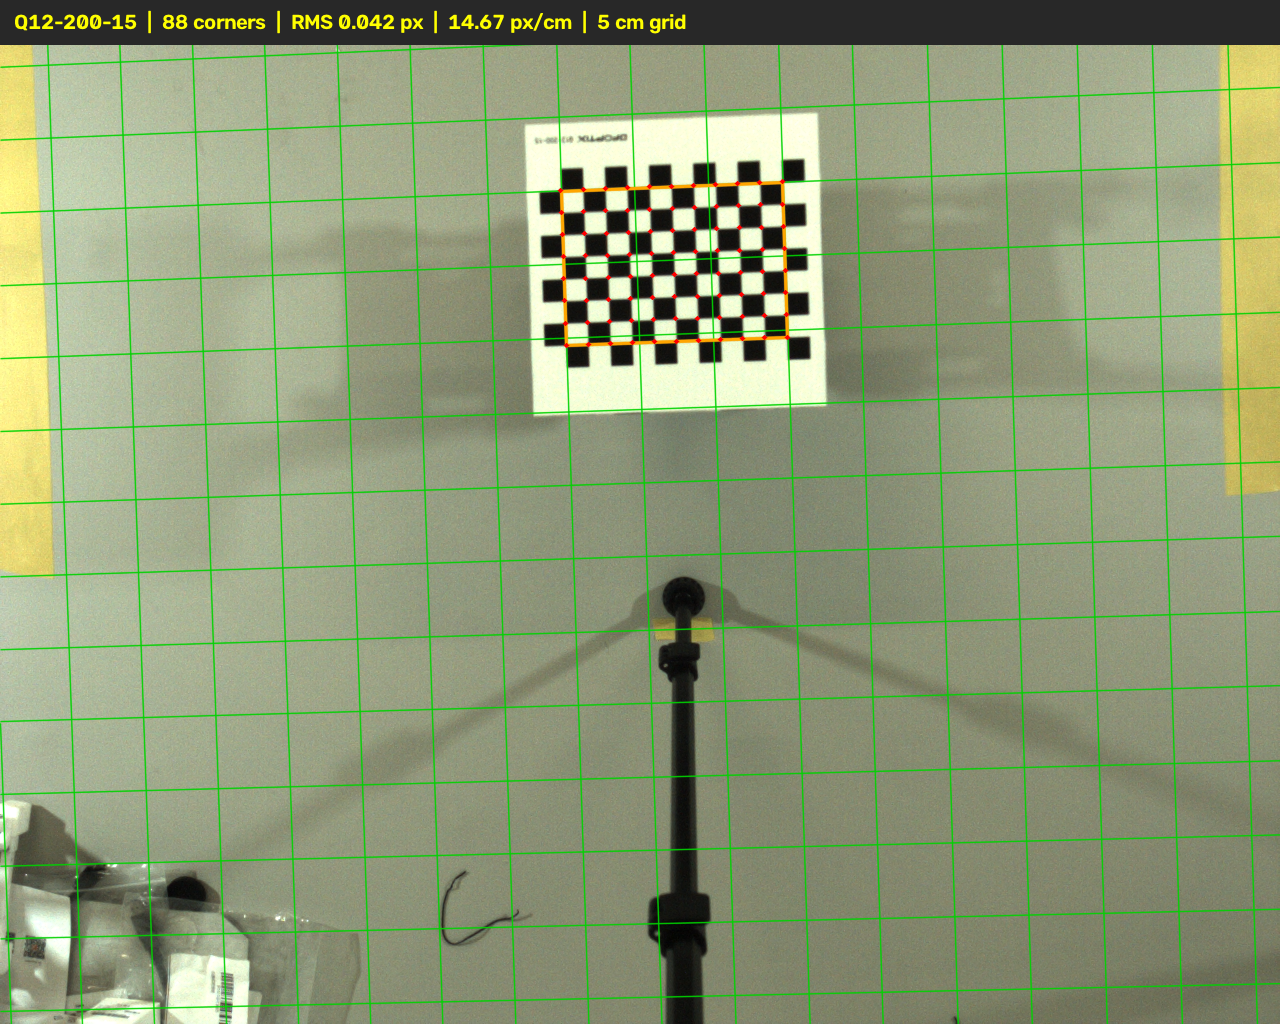
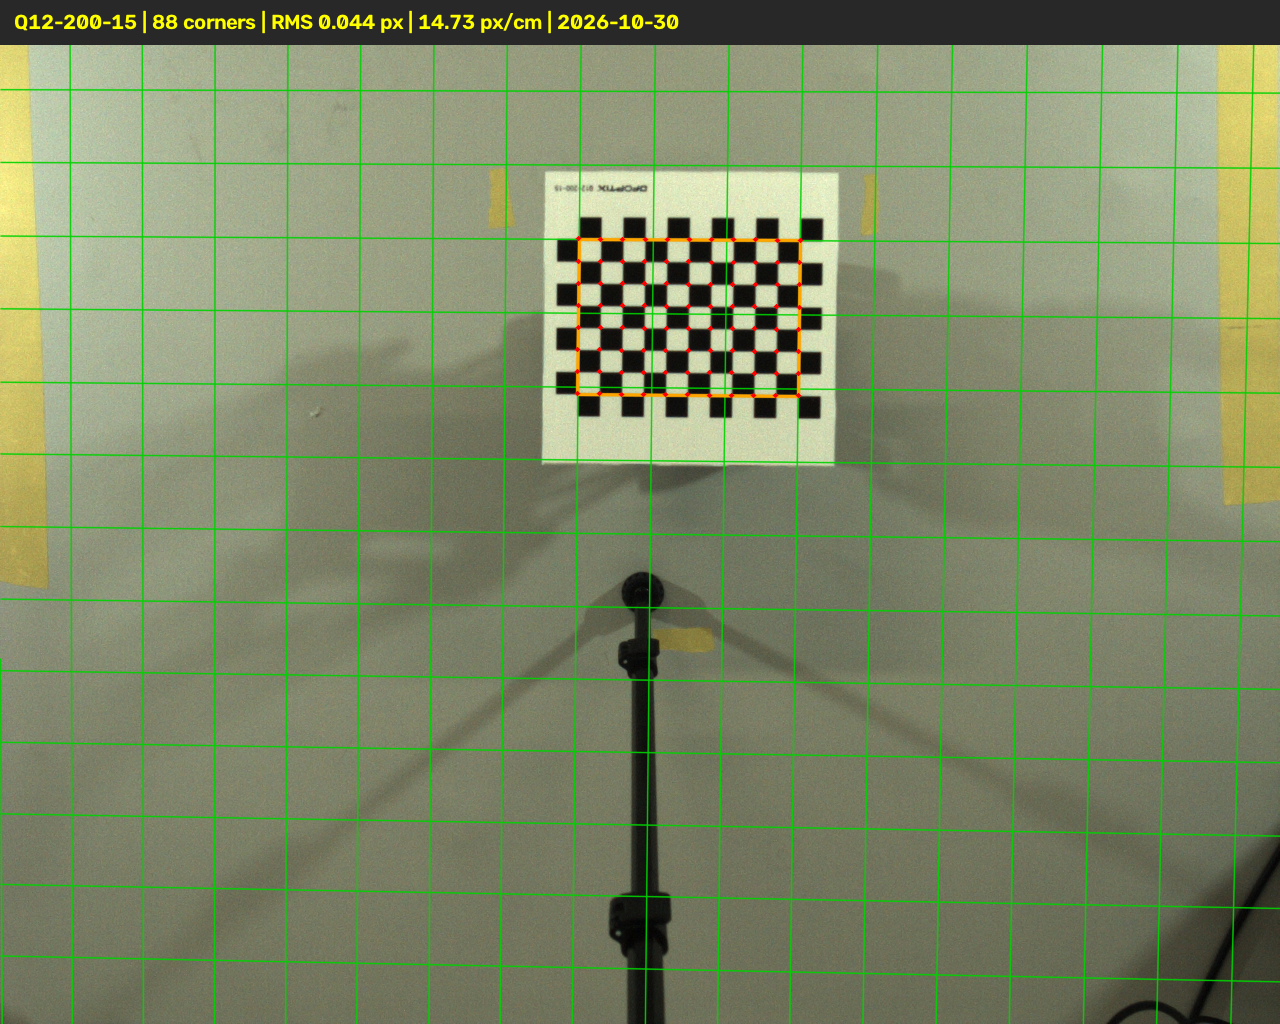
10-30 重标定：H 更新（RMS 0.044px、14.73px/cm、WD 114.8cm），config 与报告素材目录同步

diff --git a/第二学期/config.py b/第二学期/config.py
@@ -71,10 +71,10 @@ def ensure_dirs() -> None:
 #   px/cm 按【整个视野】算：1280 ÷ 110 = 11.64
 
 # ---- 以下为 2026-10-23 晚 实测值（覆盖理论推导）----
-REGION_W_CM = 77.0          # 测量区（沿运动方向）：视野 87.2 两端各留约 5 cm
-REGION_H_CM = 60.0          # 测量区短边：视野 69.7 上下各留约 4.8 cm
-WORKING_DISTANCE_M = 1.135  # 镜头 → 标定板平面（桁架顶面）实测
-PX_PER_CM = 14.67           # 实测（Q12-200-15 反算；Y 向 14.70）
+REGION_W_CM = 76.9          # 测量区（沿运动方向）：视野 87.2 两端各留约 5 cm
+REGION_H_CM = 59.3          # 测量区短边：视野 69.7 上下各留约 4.8 cm
+WORKING_DISTANCE_M = 1.148  # 镜头 → 标定板平面（桁架顶面）实测
+PX_PER_CM = 14.73           # 实测（Q12-200-15 反算；Y 向 14.70）
 
 # ---- 跟踪面修正（2026-10-24 由实测速度反推）----
 #
@@ -95,7 +95,7 @@ LENS_FOCAL_MM = 8.0
 
 # 由实测 px/cm 反推的视野（自检用，应 ≈ 87.2 × 69.7 cm）
 FOV_W_CM = 1280.0 / PX_PER_CM                       # 87.2
-FOV_H_CM = 1024.0 / (PX_PER_CM * 14.70 / 14.67)     # 69.7
+FOV_H_CM = 1024.0 / (PX_PER_CM * 14.77 / 14.73)     # 69.7
 FOV_MARGIN_CM = (FOV_W_CM - REGION_W_CM) / 2        # 5.1
 
 # 轮廓面积下限（px²），P2.2 按实测 px/cm 反算。
@@ -226,7 +226,7 @@ MVS_PATH_CANDIDATES = [
 
 if __name__ == "__main__":
     # 直接运行本文件可以看当前几何推导是否自洽
-    print(f"区域      {REGION_W_CM:.0f} × {REGION_H_CM:.0f} cm（2026-10-23 实测）")
+    print(f"区域      {REGION_W_CM:.0f} × {REGION_H_CM:.0f} cm（2026-10-30 重标）")
     print(f"视野      {FOV_W_CM:.1f} × {FOV_H_CM:.1f} cm（每边留 {FOV_MARGIN_CM:.1f} cm）")
     print(f"工作距离  {WORKING_DISTANCE_M:.3f} m（镜头→车顶跟踪面）")
     print(f"px/cm     {PX_PER_CM:.2f}（实测）")

diff --git a/第二学期/data/2026-10-30_报告素材/README.md b/第二学期/data/2026-10-30_报告素材/README.md
@@ -1,0 +1,28 @@
+# 2026-10-30 报告素材（多光照等级测量）
+
+## 本次状态
+- 桌面：**暂不铺黑布**（白桌）
+- 三脚架：**动过**，已重新标定（2026-10-30）
+- 灯：两盏 100 W 工作灯已开
+- 照度计：已到货
+
+## 重标定结果（2026-10-30）
+| 项 | 值 |
+|---|---|
+| 角点 / RMS | 88 / **0.044 px** |
+| px/cm | **14.73（X）/ 14.77（Y）** |
+| 板面 WD | **114.8 cm** |
+| 视野 / 测量区 | 86.9 × 69.3 cm / **76.9 × 59.3 cm** |
+| 31 cm/s 稳态窗 | 1.32 s |
+| 板面倾角 | 2.8° |
+
+## 拍摄清单
+- [ ] 平台照片（灯全开、两盏灯位置可见、标定板/桁架/小车）
+- [ ] 标定网格图（`captures/fig_calib_1030.png`）
+- [ ] 桁架推车视频 21 cm/s × 3
+- [ ] 桁架推车视频 30 cm/s × 3
+- [ ] 各光照档位的照度（lx）与图像亮度（填 `light_levels.csv`）
+
+## 待确认
+- 标定板是否放在**桁架顶面**？（WD 114.8 说明板面离镜头约 114.8 cm，若桁架顶面 26 cm，则镜头到桌面约 140.8 cm）
+- 镜头到桌面高度（卷尺实测）：____ cm
